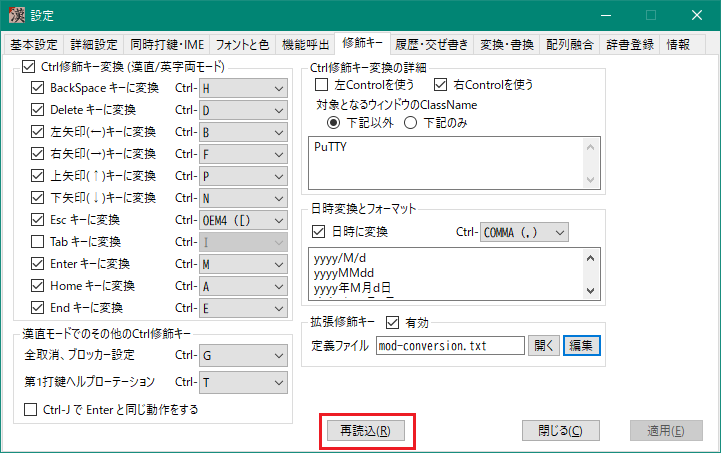
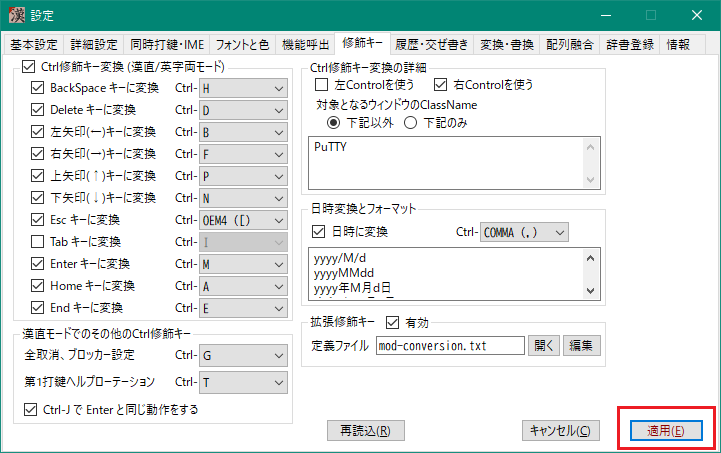
FAQ

diff --git a/FAQ/FAQ-交ぜ書き変換.md b/FAQ/FAQ-交ぜ書き変換.md
@@ -6,17 +6,40 @@
 
 - [交ぜ書き変換って何ですか](#交ぜ書き変換って何ですか)
 - [変換キーの設定](#変換キーの設定)
+    - [配列定義の中で変換キーを設定する](#配列定義の中で変換キーを設定する)
+    - [拡張修飾キーで設定する](#拡張修飾キーで設定する)
 - [ユーザー辞書登録](#ユーザー辞書登録)
     - [「ばかばかしい,馬鹿馬鹿しい,形容詞」を登録したら展開後行数が224行になりました](#ばかばかしい馬鹿馬鹿しい形容詞を登録したら展開後行数が224行になりました)
+    - [交ぜ書き展開とは何ですか](#交ぜ書き展開とは何ですか)
     - [交ぜ書き展開を抑制したい](#交ぜ書き展開を抑制したい)
-
+    - [交ぜ書き展開の抑制をデフォルトにしたい](#交ぜ書き展開の抑制をデフォルトにしたい)
 
 ## 交ぜ書き変換って何ですか
 
 
 ## 変換キーの設定
-現状、従来のように配列定義の中で交ぜ書き変換キーを設定することができないので、
-拡張修飾キーで設定してください。
+配列の中で変換キーを設定する方法と、拡張修飾キーで設定する方法があります。
+
+### 配列定義の中で変換キーを設定する
+従来の漢直WSでは、`@M` が交ぜ書き変換の起動指定文字でした。この記法は漢織媛でも有効です。
+
+たとえば、以下の記述は `:` キーに交ぜ書き変換を割り当てています。
+```
+-46>@M
+```
+または、次のように記述することもできます。
+```
+-46>{MazeConversion}
+```
+
+実は、漢織媛的にはこちらのほうが正式な記法であり、`@M` は内部で `{MazeConversion}` に変換されています。
+
+#### 「変換キー」にバインドする例
+```
+-Henkan>{MazeConversion}
+```
+
+### 拡張修飾キーで設定する
 以下は、無変換キーを拡張修飾キーとして使用し、「`無変換+K`」を交ぜ書き変換キーとして設定する例です。
 
 ![alt text](image/mazegaki-key-assign.png)
@@ -34,8 +57,10 @@
 `MazeConversion` が設定されていることを確認したら、`書き出し`をクリックします。<br>
 ![alt text](image/mazegaki-maze-conv-2.png)
 
-元の画面に戻ったら、「`再読込`」をクリックします。<br>
+元の画面に戻ったら、「`適用`」をクリックします。<br>
 ![alt text](image/mazegaki-key-assign-reload.png)
+
+その後、「拡張修飾キー」の「有効」にチェックが入っていることを確認してください。
 
 以上。
 
@@ -50,11 +75,18 @@
 
 1行に1エントリを記述します。フォーマットは次のようになっています。
 
-`読み,変換形,品詞,重み`
+`[フラグ]読み,変換形,品詞,重み`
 
 このうち、 `品詞`と`重み`は省略できます。
 - `品詞` を省略すると `名詞` になる
 - `重み` を省略すると 5000 が設定される
+
+`フラグ` には `*`, `+`, `-` の3種があります。
+- `*`: エントリを交ぜ書き展開する (デフォルト)
+- `+`: エントリを交ぜ書き展開しない。活用形の展開は行う。
+- `-`: エントリを交ぜ書き展開も活用形展開もしない
+
+(`フラグ`が `#` の場合は、その行が無視されます。)
 
 `品詞` には以下のものがあります。
 |名称|説明|
@@ -73,6 +105,7 @@
 |形容詞|形容詞|
 |形容動詞|形容動詞。「~な」という表現が可能なもの|
 |五段|五段活用する動詞|
+|四段|四段活用する動詞 (末尾「ふ」(ハ行)もサポート)|
 |一段|一段活用する動詞|
 |クル|「くる」「こない」「きて」のような活用をする動詞|
 |来ル|「来る」「来ない」「来て」のような活用をする動詞|
@@ -136,6 +169,42 @@
 
 16×14 で都合 224通りというわけです。
 
+### 交ぜ書き展開とは何ですか
+ひらがなの読みと、漢字やカタカナを含む変換形が与えられた時に、漢字の読みを推定して有りえる「交ぜ書き」のパターンを出力することです。
+
+上述の「ばかばかしい,馬鹿馬鹿しい」のケースでは、馬→ば、鹿→か、と容易に推定できますが、推定の難しいものもあります。
+
+漢織媛は、漢字に対してその音読みと訓読みのテーブルを持っています。
+
+```
+あおうなばら,青海原
+```
+
+の場合、青→あお、原→ばらの推定は比較的楽ですが、「海→うな」をどうやって推定するか。「海」には「カイ、うみ、み、わた、わだ」しか読みとして登録されていません。
+
+これは推定方法の一例ですが、この例ではまず、前後の「青」と「原」の推定ができているので、そこから中間の「海」は「うな」だろうと推定しています。このように周りを固めることによって、残りを推定するというようなこともやっています。
+
+なので、上のケースでは、次のように展開されます。
+
+```
+青海原,青海原
+青海ばら,青海原
+青うな原,青海原
+青うなばら,青海原
+あお海原,青海原
+あお海ばら,青海原
+あおうな原,青海原
+あおうなばら,青海原
+```
+
+もう一つ、「さざんか,山茶花」の例。これは末尾の「か,花」しか推定できないので、次のように展開されます。
+```
+山茶花,山茶花
+さざん花,山茶花
+山茶か,山茶花
+さざんか,山茶花
+```
+
 ### 交ぜ書き展開を抑制したい
 エントリの先頭に `+` または `-` を付けてください。
 
@@ -146,7 +215,29 @@
 こうすると交ぜ書き展開をしなくなります。`+` の場合は活用形展開をやりますが、`-` だとさらに活用形展開も抑制されます。
 
 ```
-あやしぃ,怪しぃ,形容詞
+-あやしぃ,怪しぃ,形容詞
 ```
 
-上記は基本形の「あやしぃ」と「怪しぃ」の2通だけが登録されるようになります。
+上記は基本形の「あやしぃ」と「怪しぃ」の2通りだけが登録されるようになります。
+
+### 交ぜ書き展開の抑制をデフォルトにしたい
+`#unexpandMaze` という一行を記述します。
+この行以降のエントリはデフォルトで交ぜ書き展開が抑制されます。
+
+その中でも「あえて交ぜ書き展開したい」というエントリには、先頭に `*` を付与してください。
+
+また、途中から再び交ぜ書き変換をデフォルトに戻したい、という場合は、 `#expandMaze` という一行を記述します。
+
+```
+#unexpandMaze
+# 以下は交ぜ書き展開しない
+ちさんちしょう,地産地消,サ変
+あやおりひめ,漢織媛,固有名詞
+かまどねづこ,竈門禰豆子,人名
+# 次のエントリは交ぜ書き展開される
+*いせかい,異世界
+
+#expandMaze
+# 以降、再び交ぜ書き展開を行う
+みもだえる,身悶える,一段
+```
